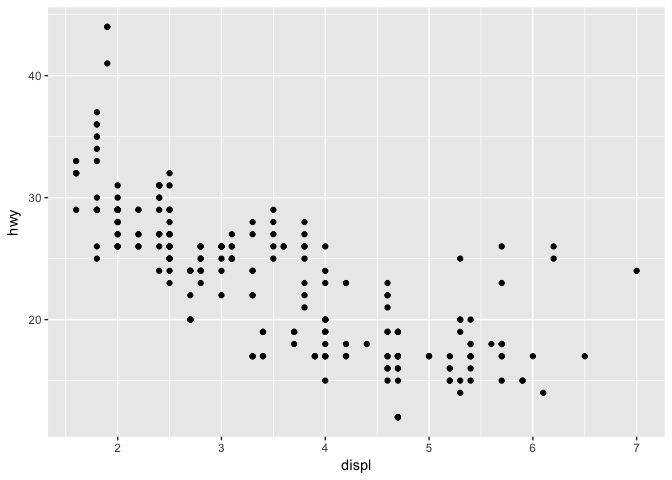
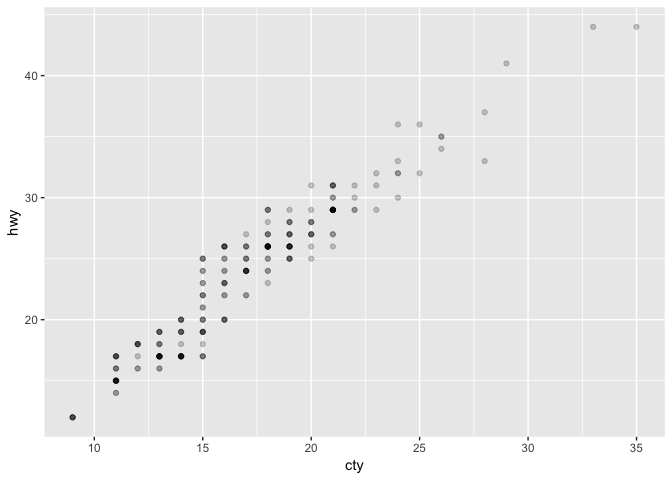
update 01 solutions

diff --git a/01-Getting-started-solutions.md b/01-Getting-started-solutions.md
@@ -6,34 +6,37 @@ Getting Started with R and RStudio (solutions)
 library(tidyverse)
 ```
 
-    ## ── Attaching packages ────────────────────────────────────── tidyverse 1.2.1 ──
+    ## ── Attaching packages ─────────────────────────────────── tidyverse 1.2.1 ──
 
-    ## ✔ ggplot2 2.2.1     ✔ purrr   0.2.4
-    ## ✔ tibble  1.3.4     ✔ dplyr   0.7.4
-    ## ✔ tidyr   0.7.2     ✔ stringr 1.2.0
-    ## ✔ readr   1.1.1     ✔ forcats 0.2.0
+    ## ✔ ggplot2 3.0.0     ✔ purrr   0.2.5
+    ## ✔ tibble  1.4.2     ✔ dplyr   0.7.5
+    ## ✔ tidyr   0.8.1     ✔ stringr 1.3.1
+    ## ✔ readr   1.1.1     ✔ forcats 0.3.0
 
-    ## ── Conflicts ───────────────────────────────────────── tidyverse_conflicts() ──
+    ## ── Conflicts ────────────────────────────────────── tidyverse_conflicts() ──
     ## ✖ dplyr::filter() masks stats::filter()
     ## ✖ dplyr::lag()    masks stats::lag()
 
-R Notebooks
------------
+R Markdown
+----------
 
-This is an [R Markdown](http://rmarkdown.rstudio.com) Notebook. When you execute code within the notebook, the results appear beneath the code.
+This is an [R Markdown](http://rmarkdown.rstudio.com) file (it has a .Rmd file extension). When you execute code within the file, the results appear beneath the code.
 
-R code goes in **code chunks**, denoted by three backticks. Try executing this chunk by clicking the *Run* button within the chunk or by placing your cursor inside it and pressing *Cmd/Crtl+Shift+Enter*.
+R code goes in **code chunks**, denoted by three backticks. Try executing this chunk by clicking the *Run* button (a small green triangle) within the chunk or by placing your cursor inside it and pressing *Ctrl+Shift+Enter* (or *Cmd+Shift+Enter* on Mac).
 
 ``` r
 ggplot(data = mpg) +
-  geom_point(mapping = aes(x = displ, y = hwy))
+  geom_point(mapping = aes(x = cty, y = hwy), alpha = 0.2)
 ```
 
 ![](01-Getting-started-solutions_files/figure-markdown_github/unnamed-chunk-1-1.png)
 
+Add a new code chunk
+--------------------
+
 Add a new code chunk by clicking the *Insert Chunk* button on the toolbar or by pressing *Cmd/Ctrl+Option+I*.
 
-Here's a not very interesting chunk of R code:
+Put 2 + 2 in your new code chunk and run it.
 
 ``` r
 2 + 2
@@ -41,9 +44,12 @@ Here's a not very interesting chunk of R code:
 
     ## [1] 4
 
-When you save the notebook, an HTML file containing the code and output will be saved alongside it (click the *Preview* button or press *Cmd+Shift+K* to preview the HTML file).
+Knitting RMarkdown files
+------------------------
 
-The preview shows you a rendered HTML copy of the contents of the editor. Consequently, unlike *Knit*, *Preview* does not run any R code chunks. Instead, the output of the chunk when it was last run in the editor is displayed.
+We'll use RMarkdown files as notebooks as we learn because we can record text, code and output.
+
+RMarkdown files are also a publication format. Try hitting the "Knit" button in the toolbar above. R runs all the code in the document from top to bottom, it collects the output and puts the code, text and output together in an HTML document - you should see it as 01-Getting-started.html in the Files pane. This document is a great way to record or share your work (you can also Knit to PDF or Word documents).
 
 Assigning variables
 -------------------
@@ -57,17 +63,17 @@ filter(mtcars, cyl == 4)
     ## # A tibble: 11 x 11
     ##      mpg   cyl  disp    hp  drat    wt  qsec    vs    am  gear  carb
     ##    <dbl> <dbl> <dbl> <dbl> <dbl> <dbl> <dbl> <dbl> <dbl> <dbl> <dbl>
-    ##  1  22.8     4 108.0    93  3.85 2.320 18.61     1     1     4     1
-    ##  2  24.4     4 146.7    62  3.69 3.190 20.00     1     0     4     2
-    ##  3  22.8     4 140.8    95  3.92 3.150 22.90     1     0     4     2
-    ##  4  32.4     4  78.7    66  4.08 2.200 19.47     1     1     4     1
-    ##  5  30.4     4  75.7    52  4.93 1.615 18.52     1     1     4     2
-    ##  6  33.9     4  71.1    65  4.22 1.835 19.90     1     1     4     1
-    ##  7  21.5     4 120.1    97  3.70 2.465 20.01     1     0     3     1
-    ##  8  27.3     4  79.0    66  4.08 1.935 18.90     1     1     4     1
-    ##  9  26.0     4 120.3    91  4.43 2.140 16.70     0     1     5     2
-    ## 10  30.4     4  95.1   113  3.77 1.513 16.90     1     1     5     2
-    ## 11  21.4     4 121.0   109  4.11 2.780 18.60     1     1     4     2
+    ##  1  22.8     4 108      93  3.85  2.32  18.6     1     1     4     1
+    ##  2  24.4     4 147.     62  3.69  3.19  20       1     0     4     2
+    ##  3  22.8     4 141.     95  3.92  3.15  22.9     1     0     4     2
+    ##  4  32.4     4  78.7    66  4.08  2.2   19.5     1     1     4     1
+    ##  5  30.4     4  75.7    52  4.93  1.62  18.5     1     1     4     2
+    ##  6  33.9     4  71.1    65  4.22  1.84  19.9     1     1     4     1
+    ##  7  21.5     4 120.     97  3.7   2.46  20.0     1     0     3     1
+    ##  8  27.3     4  79      66  4.08  1.94  18.9     1     1     4     1
+    ##  9  26       4 120.     91  4.43  2.14  16.7     0     1     5     2
+    ## 10  30.4     4  95.1   113  3.77  1.51  16.9     1     1     5     2
+    ## 11  21.4     4 121     109  4.11  2.78  18.6     1     1     4     2
 
 And the code in this chunk?
 
